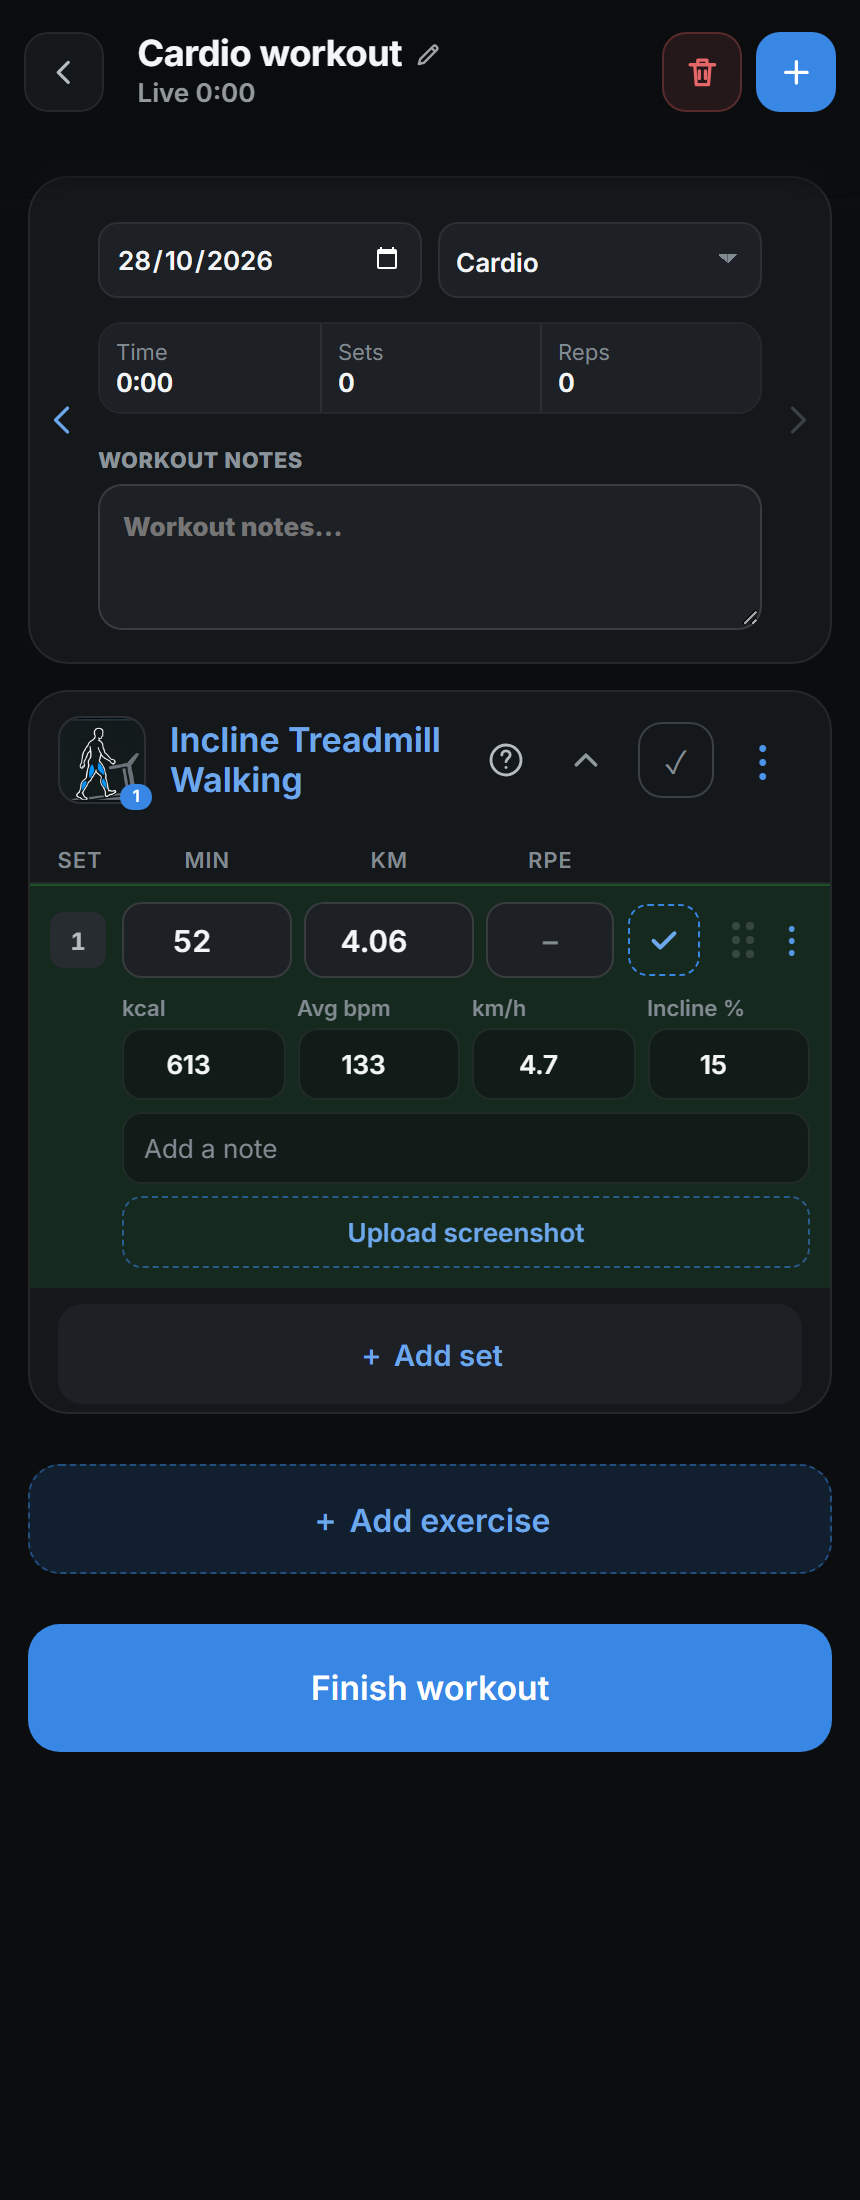
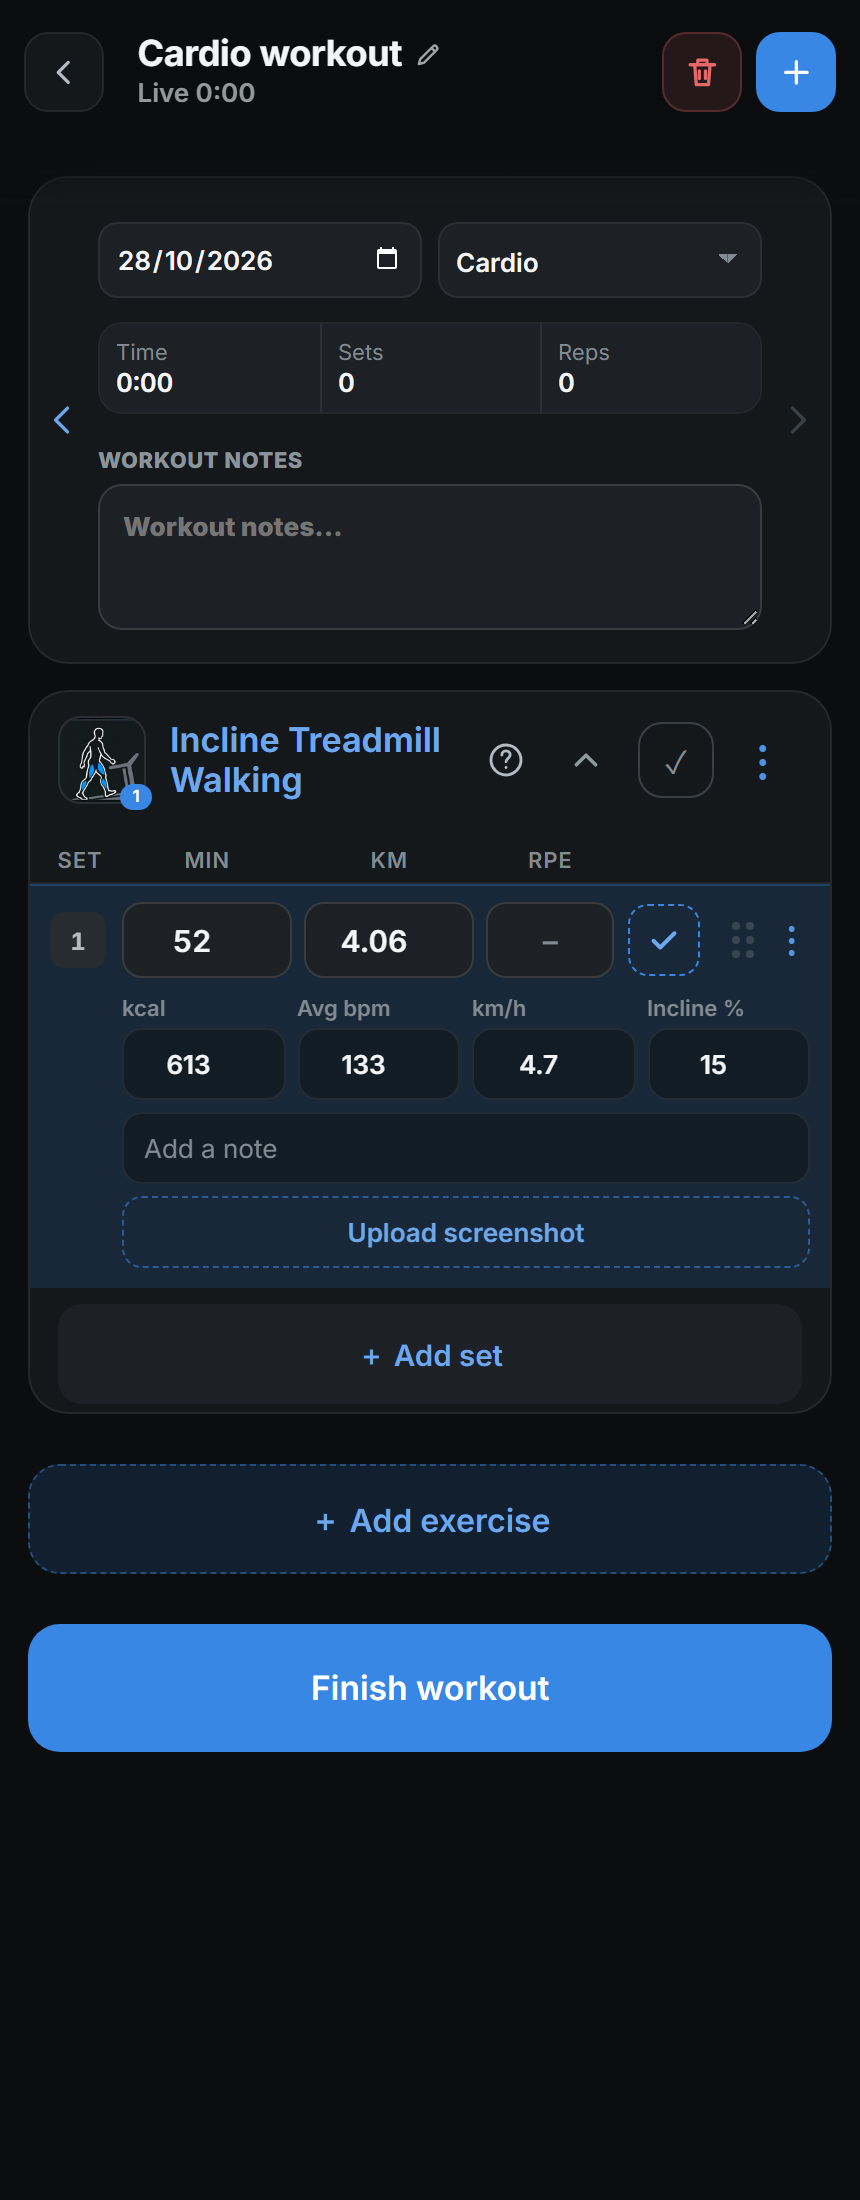
Keep incomplete cardio sets on the blue editing surface

Changed region(s): [[0.0302, 0.4018, 0.9674, 0.5873]]

diff --git a/frontend/src/workoutSetColours.css b/frontend/src/workoutSetColours.css
@@ -1,4 +1,4 @@
-/* Set type controls the row; RPE controls only the recorded effort number. */
+/* Set type controls strength rows; cardio uses completion; RPE colours only effort. */
 :root {
   --rpe-low: #8ed4a1;
   --rpe-6-5: #abd68b;
@@ -44,6 +44,12 @@
 .logger-screen .set-grid .set-details.previous-set-details[data-set-type] {
   border-color: rgb(var(--set-type-rgb) / 34%);
   background: rgb(var(--set-type-rgb) / 12%);
+}
+
+/* Cardio stays on the editing surface until the set is completed. */
+.logger-screen .set-grid-cardio .set-details[data-set-type]:not(.completed) {
+  border-color: rgb(57 135 229 / 28%);
+  background: var(--p-accent-soft);
 }
 
 .logger-screen [data-rpe='5'],

diff --git a/docs/RELEASE-NOTES.md b/docs/RELEASE-NOTES.md
@@ -10,7 +10,7 @@ _Relay was called Gym Logger before version 1.0._
 
 ![New cardio session with the suggested treadmill set expanded for editing](screenshots/releases/1.1.0-cardio-expanded.png)
 
-_Cardio sets open ready to edit or upload a screenshot, with previous-session values preserved and the set still uncompleted. This phone-sized view uses isolated sample data._
+_Cardio sets open ready to edit or upload a screenshot, with previous-session values preserved and a blue row until completed. This phone-sized view uses isolated sample data._
 
 ![Add exercise form with multiple target muscles and separate Direct and Partial credits per working set](screenshots/releases/1.1.0-custom-exercise-muscle.png)
 
@@ -56,7 +56,7 @@ _Equipment photo opens directly to its controls in this isolated sample workout.
 
 _The exercise card ends at Add set. Set notes and workout notes remain available. Isolated sample data._
 
-- Cardio sets open with their editable fields expanded, including suggestions from your previous session. Review duration, distance, calories, heart rate, speed and incline or upload a screenshot immediately. Sets remain uncompleted until you tick them; completed sets still fold away.
+- Cardio sets open with their editable fields expanded, including suggestions from your previous session. Uncompleted cardio rows are blue; completed rows are green. Review duration, distance, calories, heart rate, speed and incline or upload a screenshot immediately. Sets remain uncompleted until you tick them; completed sets still fold away.
 - Use the **+** beside **Search exercises** to add to your library without starting a workout. **Sessions** has a compact **+** beside the **Training** heading. Both open the same form for multiple target muscles and their individual credits; saving keeps you on the current tab.
 - When adding a custom strength exercise, add multiple target muscles and choose **Direct (1 set)** or **Partial (half a set)** credit separately for each muscle. Each completed working set contributes those independent credits to weekly muscle totals and the exercise's muscle help. Add or remove targets before saving; existing exercise credits stay unchanged, and cardio does not add strength sets.
 - Your profile loads quietly after sign-in and keeps its loaded workouts visible during refreshes, reducing the Loading profile screen when you open it. Cached profile content stays in memory for the signed-in account and is cleared when accounts change.
@@ -69,7 +69,7 @@ _The exercise card ends at Add set. Set notes and workout notes remain available
 - The top-right Settings icon always opens All settings, instead of returning to the last section. Settings search still opens the selected control and unfinished forms stay available.
 - Equipment photo opens directly to its photo controls, with the redundant introductory sentence removed.
 - RPE numbers use an effort scale: green at 5 and 6, lime at 7, gold at 8, orange at 9 and red at 10. Half points use colours between those values. The selected value and folded summary use the same colour; blank RPE stays neutral. Light mode uses darker text colours.
-- Workout rows follow their set type: orange warm-ups, green working sets, purple drop sets and red failure sets. Editing, completing and suggesting a set keep its type tint; RPE changes only affect the effort number.
+- Strength workout rows follow their set type: orange warm-ups, green working sets, purple drop sets and red failure sets. Editing, completing and suggesting a set keep its type tint; RPE changes only affect the effort number.
 
 ## 1.0.0
 
